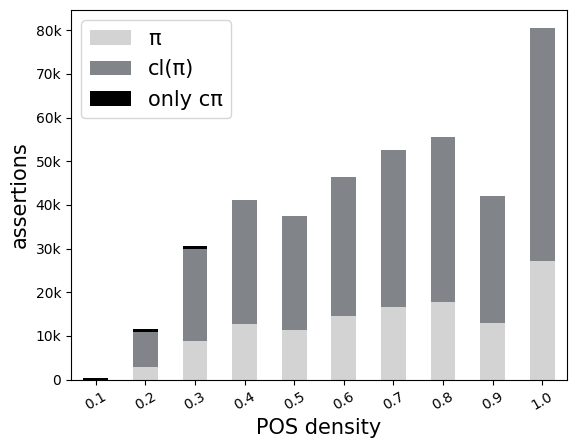
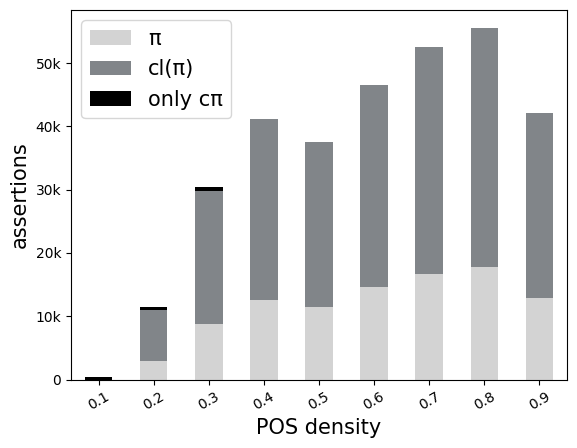
Test repair size vs. growing density of POS.
Former-commit-id: 14329bc241c1d8534a159ceb3d02b8f68402d32f [formerly d8a8092a943c66a8e9c368a71d6c1dd4c734063f]
Former-commit-id: 976951b0bdfe8a26da269542db41a1af282acec2

diff --git a/src/main2.py b/src/main2.py
@@ -47,18 +47,18 @@ if __name__ == "__main__":
     ontology_path = "ontologies/univ-bench/lubm-ex-20_disjoint.owl"
     
     # "bench_prepa/dataset.0.2/University5_p_0.00005.db", "bench_prepa/dataset.0.2/University5_p_0.0005.db", "bench_prepa/dataset.0.2/University5_p_0.0001.db", "bench_prepa/dataset.0.2/University5_p_0.00001.db", "bench_prepa/dataset.0.2/University5_p_0.000005.db"
-    data_paths = ["bench_prepa/dataset_1_university/University0_p_0.00005.db", "bench_prepa/dataset_1_university/University0_p_0.00015.db"] 
-    # "bench_prepa/dataset_1_university/University0_p_0.000005.db", "bench_prepa/dataset_1_university/University0_p_0.00001.db", , "bench_prepa/dataset_1_university/University0_p_0.0005.db"
+    data_paths = ["bench_prepa/dataset_1_university/University0_p_0.00005.db"] 
+    # "bench_prepa/dataset_1_university/University0_p_0.000005.db", "bench_prepa/dataset_1_university/University0_p_0.00001.db", , "bench_prepa/dataset_1_university/University0_p_0.00015.db", "bench_prepa/dataset_1_university/University0_p_0.0005.db"
     
     #for data_path in data_paths:
     #    conflicts_helper(ontology_path, data_path)
     relative_path = "bench_prepa/DAGs/DAGs_with_bnlearn/ordered_method/"
     
-    pos_dir_paths = ["pos100/", "pos500/", "pos1000/"] #"pos100/", "pos250/", "pos50/", "pos5000/", "pos750/"
+    pos_dir_paths = ["pos250/", "pos750/", "pos2500/"] #"pos100/", "pos250/", "pos50/", "pos5000/", "pos750/"
 
     results_path = "bench_prepa/dataset.01/execution_results_3.txt"
 
-    pos_list = ["prob_0.1.txt", "prob_0.2.txt", "prob_0.3.txt", "prob_0.4.txt", "prob_0.5.txt", "prob_0.6.txt", "prob_0.7.txt", "prob_0.8.txt", "prob_0.9.txt", "prob_1.0.txt"] # 
+    pos_list = ["prob_0.1.txt", "prob_0.2.txt", "prob_0.3.txt", "prob_0.4.txt", "prob_0.5.txt", "prob_0.6.txt", "prob_0.7.txt", "prob_0.8.txt", "prob_0.9.txt"] # 
 
     for data_path in data_paths:
             
